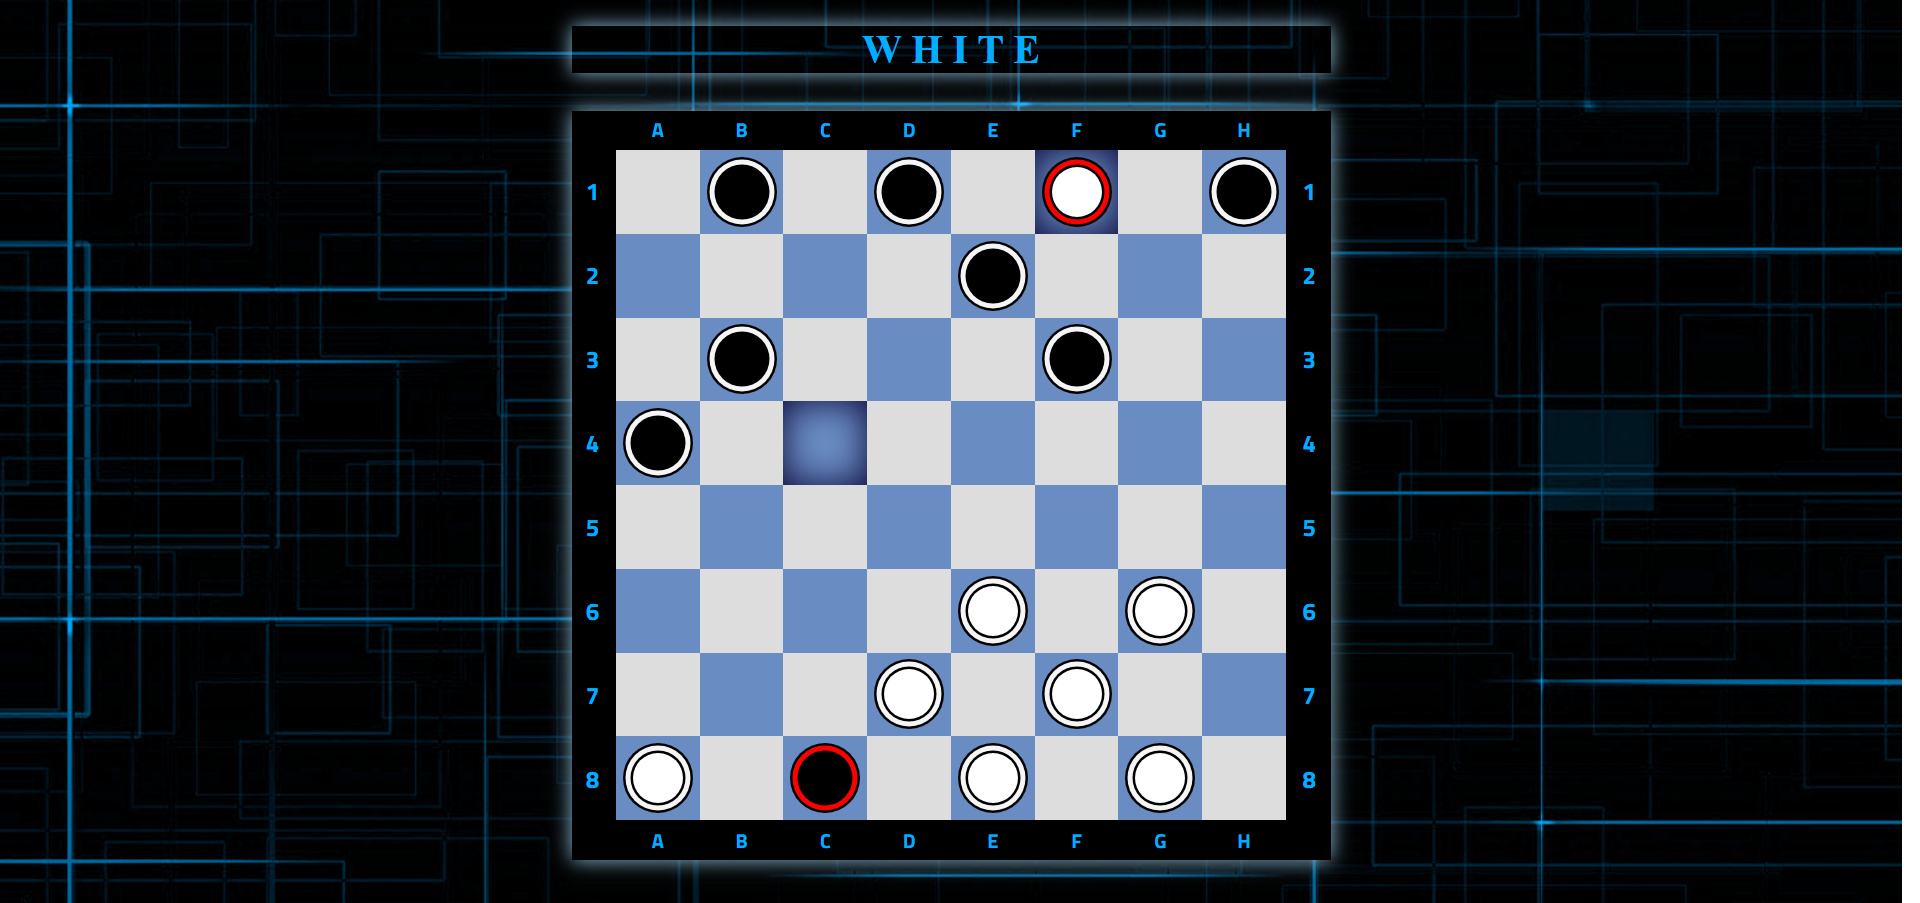
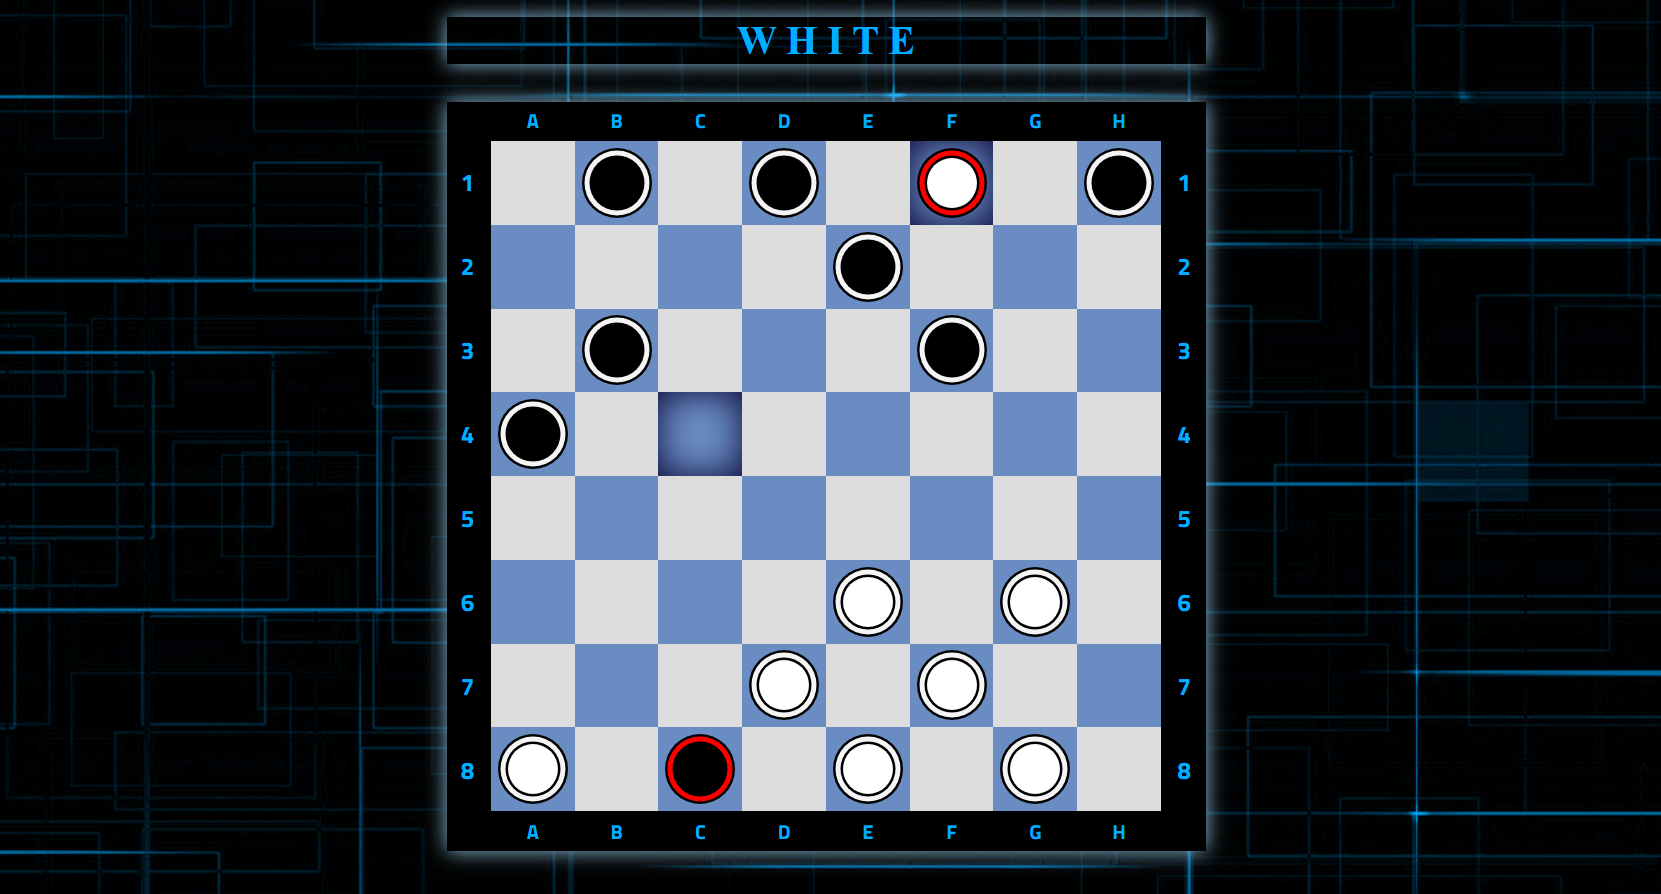
add checkers picture

Changed region(s): [[0.0, 0.0, 1.0, 1.0], [0.9211, 0.0, 0.9518, 0.0302]]

diff --git a/index.html b/index.html
@@ -45,7 +45,7 @@
 
         <div class="common-page">
             <div class="preview-container">
-            <img src="assets/images/checkers.jpg" alt="Checkers">
+            <img src="assets/images/checkers.png" alt="Checkers">
             </div>
             <div class="description-container">
                 <div class="description">
